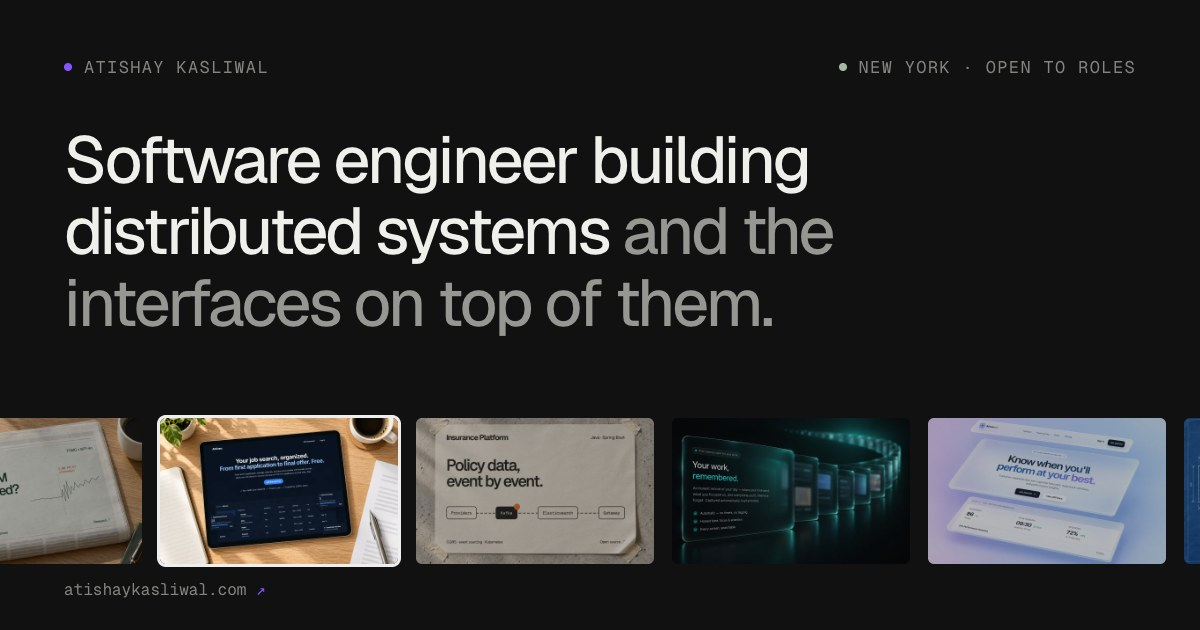
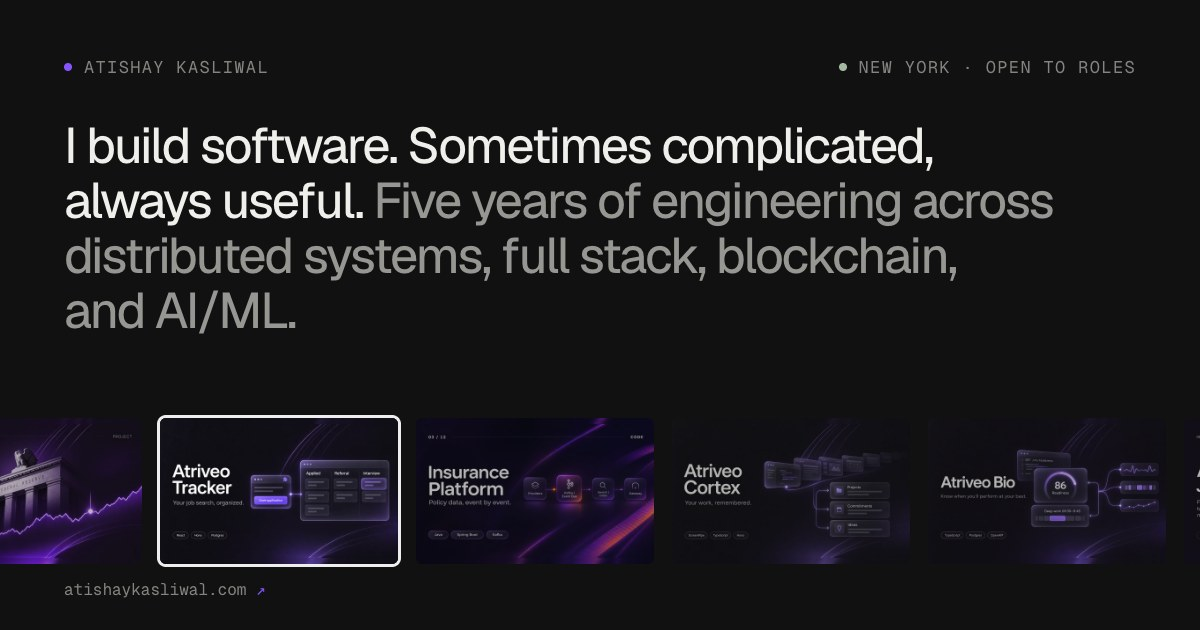
Share image: the new headline, with a versioned URL
public/og.jpg now shows "I build software. Sometimes complicated, always
useful." and the five-years line, and og:image / twitter:image carry ?v= so
link previews fetch the new card instead of a cached one.

Claude-Session: https://claude.ai/code/session_01GLWjPfe481XMDZ5nKeGVsJ

Changed region(s): [[0.0308, 0.181, 0.8942, 0.5429], [0.0, 0.6635, 1.0, 0.9048]]

diff --git a/scripts/og.html b/scripts/og.html
@@ -13,7 +13,7 @@
   .top span { display: flex; align-items: center; gap: 12px; }
   .top span::before { content: ""; width: 8px; height: 8px; border-radius: 50%; background: #8554ff; }
   .top span.open::before { background: #a5b8a1; }
-  h1 { position: absolute; left: 64px; top: 124px; width: 900px; margin: 0; font-size: 66px; font-weight: 450; line-height: 1.08; letter-spacing: -0.045em; }
+  h1 { position: absolute; left: 64px; top: 118px; width: 1040px; margin: 0; font-size: 50px; font-weight: 450; line-height: 1.1; letter-spacing: -0.04em; text-wrap: pretty; }
   h1 em { font-style: normal; color: #969692; }
   .strip { position: absolute; left: -96px; top: 418px; display: flex; gap: 18px; }
   .strip img { width: 238px; height: 146px; object-fit: cover; border-radius: 6px; opacity: 0.7; }
@@ -24,7 +24,7 @@
 </head>
 <body>
   <div class="top"><span>Atishay Kasliwal</span><span class="open">New York · Open to roles</span></div>
-  <h1>Software engineer building distributed systems <em>and the interfaces on top of them.</em></h1>
+  <h1>I build software. Sometimes complicated, always useful. <em>Five years of engineering across distributed systems, full stack, blockchain, and AI/ML.</em></h1>
   <div class="strip">
     <img src="../public/projects/cards/fedtalk.webp" alt="" />
     <img src="../public/projects/cards/tracker.webp" alt="" class="on" />

diff --git a/index.html b/index.html
@@ -32,7 +32,7 @@
       content="Software and AI engineer in New York building distributed systems, LLM products and the interfaces on top of them."
     />
     <meta property="og:url" content="https://atishaykasliwal.com/" />
-    <meta property="og:image" content="https://atishaykasliwal.com/og.jpg" />
+    <meta property="og:image" content="https://atishaykasliwal.com/og.jpg?v=20261120" />
     <meta property="og:image:width" content="1200" />
     <meta property="og:image:height" content="630" />
     <meta
@@ -47,7 +47,7 @@
       name="twitter:description"
       content="Software and AI engineer in New York building distributed systems, LLM products and the interfaces on top of them."
     />
-    <meta name="twitter:image" content="https://atishaykasliwal.com/og.jpg" />
+    <meta name="twitter:image" content="https://atishaykasliwal.com/og.jpg?v=20261120" />
 
     <!-- Who this page is about, for search engines. The Person node and the ProfilePage date are
          replaced at build time from src/profile/build.js and src/case-studies/data.js (see the
